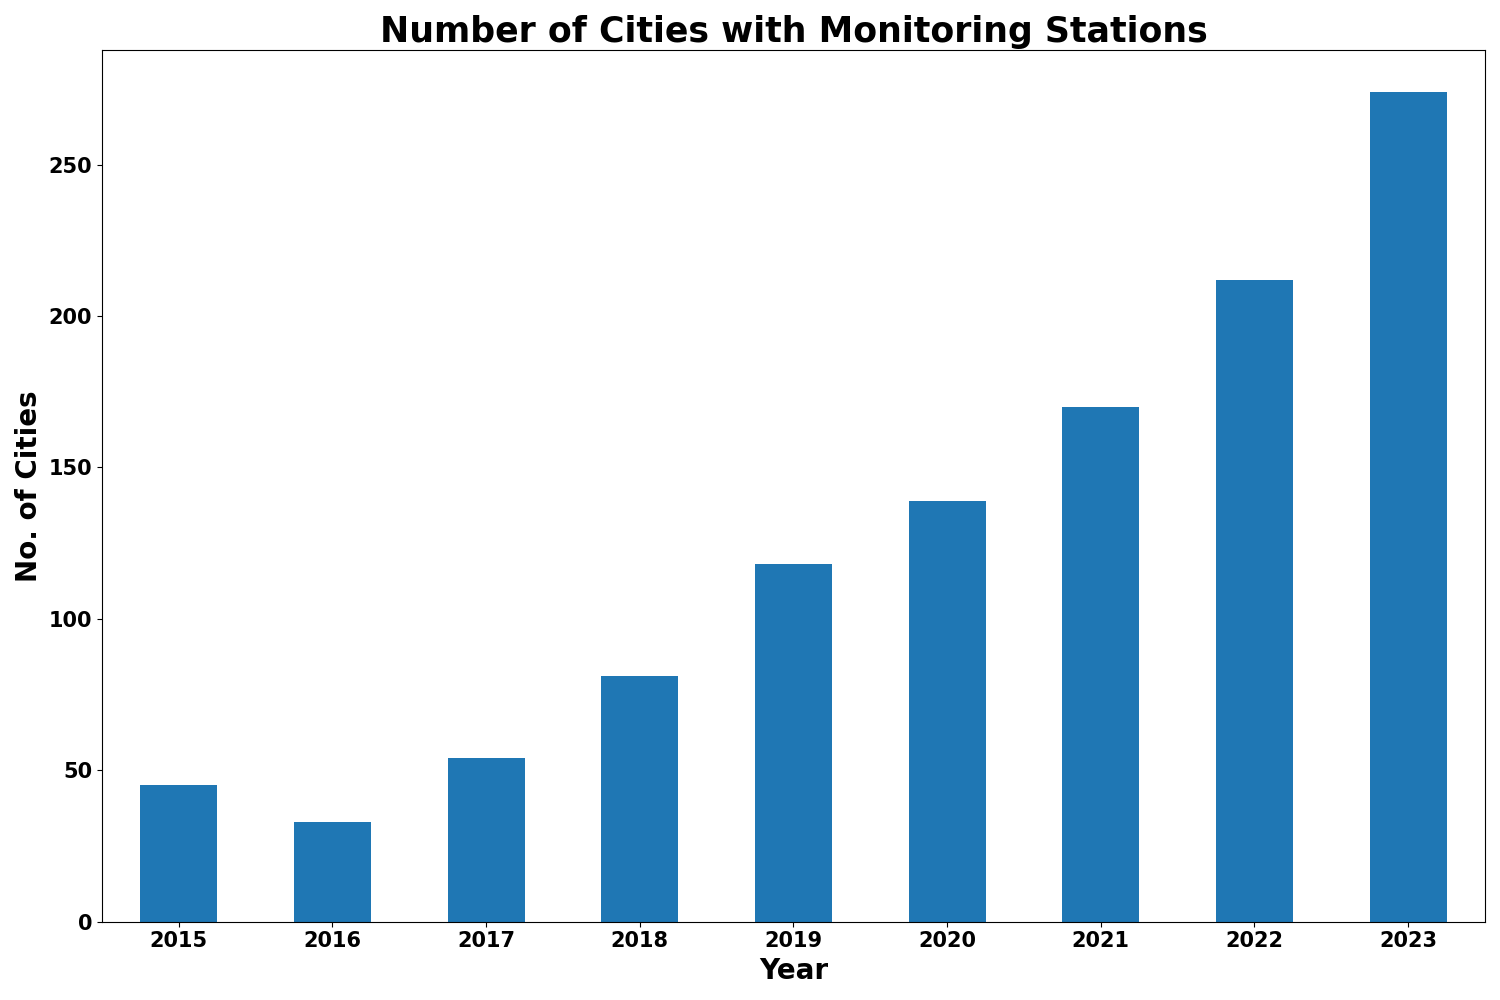
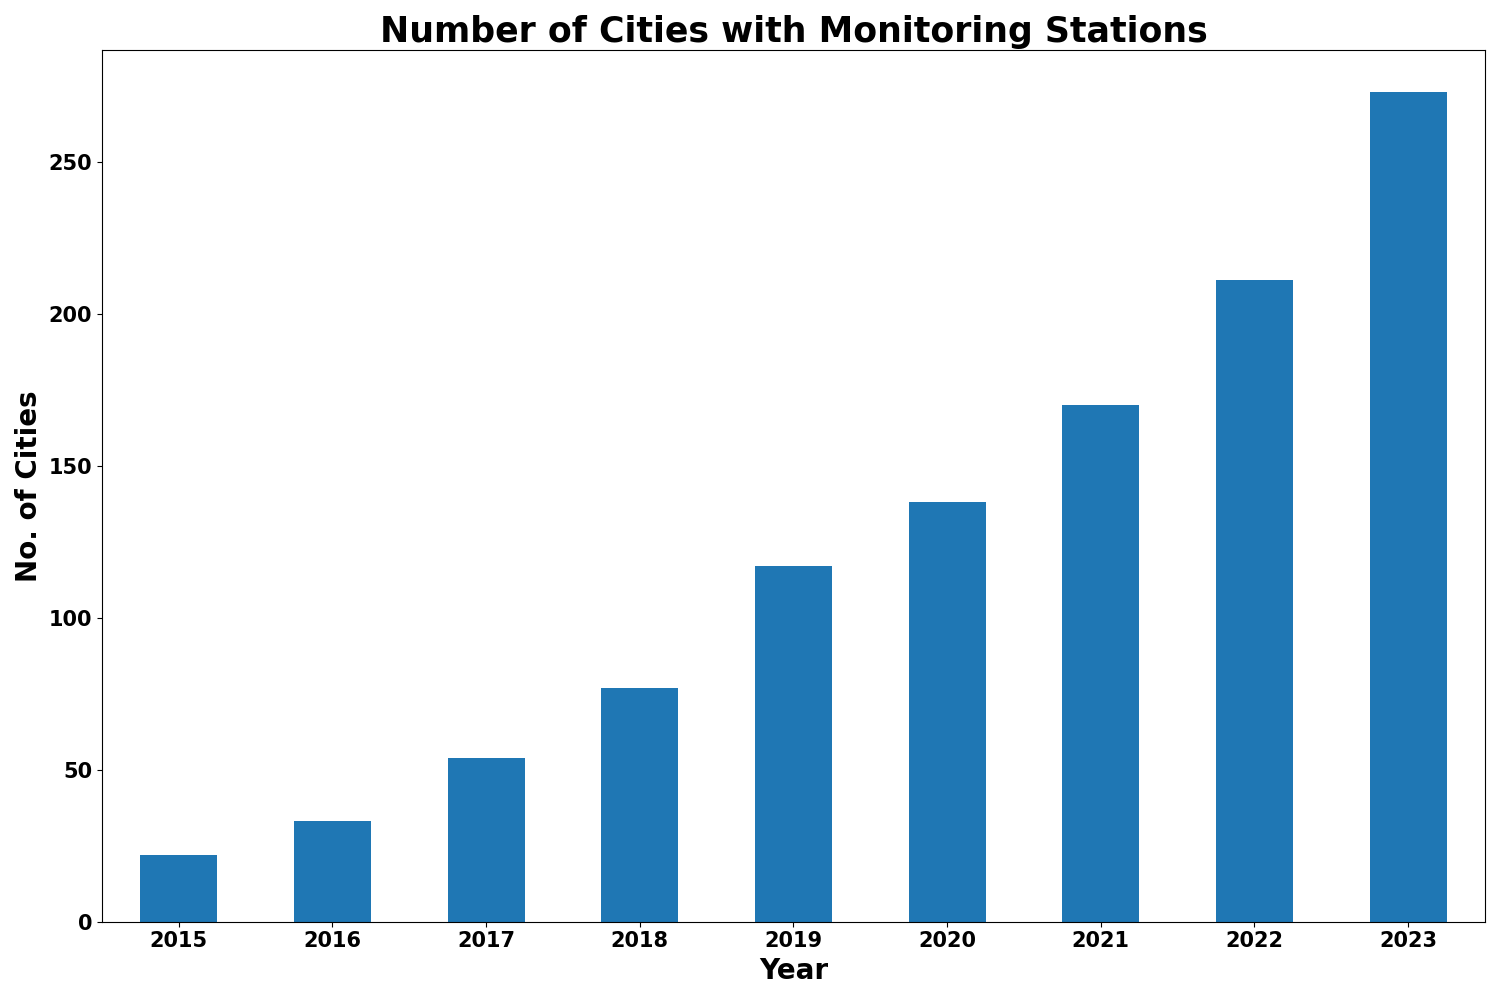
ADD Clean cities

diff --git a/scripts/aqi_research.py b/scripts/aqi_research.py
@@ -13,6 +13,12 @@ df = df.dropna()
 df['date'] = pd.to_datetime(df['date'])
 df['No. Stations'] = df['No. Stations'].astype(float)
 df['year'] = df['date'].dt.year
+df['month'] = df['date'].dt.month
+df['day365'] = df['date'].dt.dayofyear
+
+# List of cities
+df.City.value_counts().to_csv(os.getcwd() + '/data/Results/Cities_list.csv')
+
 
 # 1. total unique cities being monitored by year 
 unique_cities_per_year = df.groupby('year')['City'].nunique()
@@ -28,3 +34,120 @@ plt.ylabel('No. of Cities', fontweight='bold', fontsize=20)
 plt.title('Number of Cities with Monitoring Stations', fontsize=25, fontweight='bold')
 plt.tight_layout()
 plt.savefig(os.getcwd() + '/plots/Results/unique_cities_per_year.png')
+plt.close()
+
+# 2. total unique cities by month
+unique_cities_per_month = df.groupby(['year', 'month'])['City'].nunique()
+unique_cities_per_month.to_csv(os.getcwd() + '/data/Results/unique_cities_per_month.csv')
+unique_cities_per_month = unique_cities_per_month.reset_index()
+unique_cities_per_month['date'] = unique_cities_per_month['year'].astype(str) + '-' + unique_cities_per_month['month'].astype(str)
+
+unique_cities_per_month.plot(x='date', y='City',
+                            kind='bar',
+                            figsize=(15,10))
+selected_ticks = [0] + list(range(12, unique_cities_per_month['date'].shape[0], 12))  # First, 13th, 26th, etc.
+plt.xticks(selected_ticks, fontweight='bold', rotation=0, fontsize=15)
+plt.yticks(fontweight='bold', fontsize=15)
+plt.xlabel('Month', fontweight='bold', fontsize=20)
+plt.ylabel('No. of Cities', fontweight='bold', fontsize=20)
+plt.title('Number of Cities with Monitoring Stations', fontsize=25, fontweight='bold')
+plt.tight_layout()
+# Remove legend box
+plt.legend().remove()
+plt.savefig(os.getcwd() + '/plots/Results/unique_cities_per_month.png')
+plt.close()
+
+# 3. total number of monitoring stations by year
+## Total number of stations on any day
+num_stations = df.groupby(['year','day365'])['No. Stations'].sum().reset_index()
+
+## Considering max number of stations in a year as "num stations in that year"
+num_stations_per_year = num_stations.groupby('year').max().reset_index()
+num_stations_per_year = num_stations_per_year[['year', 'No. Stations']]
+num_stations_per_year.to_csv(os.getcwd() + '/data/Results/num_stations_per_year.csv')
+
+num_stations_per_year.plot(x='year',
+                           kind='bar',
+                           figsize=(15,10))
+
+plt.xticks(fontweight='bold', rotation=0, fontsize=15)
+plt.yticks(fontweight='bold', fontsize=15)
+plt.xlabel('Year', fontweight='bold', fontsize=20)
+plt.ylabel('No. of Stations', fontweight='bold', fontsize=20)
+plt.title('Number of Monitoring Stations', fontsize=25, fontweight='bold')
+plt.tight_layout()
+plt.legend().remove()
+plt.savefig(os.getcwd() + '/plots/Results/num_stations_per_year.png')
+plt.close()
+
+# 4. total number of monitoring stations by month
+## Total number of stations on any day
+num_stations = df.groupby(['year', 'month', 'day365'])['No. Stations'].sum().reset_index()
+
+## Considering max number of stations in a year as "num stations in that year"
+num_stations_per_month = num_stations.groupby(['year','month']).max().reset_index()
+num_stations_per_month = num_stations_per_month[['year', 'month', 'No. Stations']]
+num_stations_per_month.to_csv(os.getcwd() + '/data/Results/num_stations_per_month.csv')
+num_stations_per_month['date'] = num_stations_per_month['year'].astype(str) + '-' + num_stations_per_month['month'].astype(str)
+
+num_stations_per_month.plot(x='date', y='No. Stations',
+                            kind='bar',
+                            figsize=(15,10))
+selected_ticks = [0] + list(range(12, num_stations_per_month['date'].shape[0], 12))  # First, 13th, 26th, etc.
+plt.xticks(selected_ticks, fontweight='bold', rotation=0, fontsize=15)
+plt.yticks(fontweight='bold', fontsize=15)
+plt.xlabel('Month', fontweight='bold', fontsize=20)
+plt.ylabel('No. of Stations', fontweight='bold', fontsize=20)
+plt.title('Number of Monitoring Stations', fontsize=25, fontweight='bold')
+plt.tight_layout()
+# Remove legend box
+plt.legend().remove()
+plt.savefig(os.getcwd() + '/plots/Results/num_stations_per_month.png')
+plt.close()
+
+
+# 5. Average number of monitoring stations per city by year (I am assuming this is the same as point 3/ point 1)
+
+avg_by_year = num_stations_per_year.values[:,1]/unique_cities_per_year.values
+avg_by_year_df = pd.DataFrame([num_stations_per_year.values[:,0], avg_by_year]).T
+avg_by_year_df.columns = ['year', 'avg']
+avg_by_year_df['year'] = avg_by_year_df['year'].astype('int')
+avg_by_year_df.to_csv(os.getcwd() + '/data/Results/avg_numstations_by_year.csv')
+avg_by_year_df.plot(x='year',
+                    kind='bar',
+                    figsize=(15,10))
+
+plt.xticks(fontweight='bold', rotation=0, fontsize=15)
+plt.yticks(fontweight='bold', fontsize=15)
+plt.xlabel('Year', fontweight='bold', fontsize=20)
+plt.ylabel('Average number of Stations', fontweight='bold', fontsize=20)
+plt.title('Average number of Monitoring Stations', fontsize=25, fontweight='bold')
+plt.tight_layout()
+plt.legend().remove()
+plt.savefig(os.getcwd() + '/plots/Results/avg_numstations_by_year.png')
+plt.close()
+
+# 6. Average number of monitoring stations per city by month (I am assuming this is the same as point 4/point 2)
+avg_by_month = num_stations_per_month.values[:,2]/unique_cities_per_month.values[:,2]
+avg_by_month_df = pd.DataFrame(unique_cities_per_month.values[:,0:2])
+avg_by_month_df['avg'] = avg_by_month
+avg_by_month_df.columns = ['year', 'month', 'avg']
+avg_by_year_df.to_csv(os.getcwd() + '/data/Results/avg_numstations_by_month.csv')
+
+avg_by_month_df['date'] = avg_by_month_df['year'].astype(str) + '-' + avg_by_month_df['month'].astype(str)
+
+avg_by_month_df.plot(x='date', y='avg',
+                            kind='bar',
+                            figsize=(15,10))
+selected_ticks = [0] + list(range(12, avg_by_month_df['date'].shape[0], 12))  # First, 13th, 26th, etc.
+plt.xticks(selected_ticks, fontweight='bold', rotation=0, fontsize=15)
+plt.yticks(fontweight='bold', fontsize=15)
+plt.xlabel('Month', fontweight='bold', fontsize=20)
+plt.ylabel('Average number of Stations', fontweight='bold', fontsize=20)
+plt.title('Average number of  Monitoring Stations', fontsize=25, fontweight='bold')
+plt.tight_layout()
+# Remove legend box
+plt.legend().remove()
+plt.savefig(os.getcwd() + '/plots/Results/avg_numstations_by_month.png')
+plt.close()
+

diff --git a/scripts/clean.py b/scripts/clean.py
@@ -34,9 +34,24 @@ master_df['No. Stations'] = master_df['No. Stations'].replace('nan','', regex=Tr
 master_df['No. Stations'] = master_df['No. Stations'].apply(lambda x: str(x).split('/')[0])
 master_df['No. Stations'] = master_df['No. Stations'].apply(lambda x: str(x).replace('+', ''))
 
+# CLean City Column
+master_df['City'] = master_df['City'].apply(lambda x: str(x).replace('+', ''))
+master_df['City'] = master_df['City'].apply(lambda x: str(x).replace('#', ''))
+master_df['City'] = master_df['City'].apply(lambda x: str(x).replace('\n',''))
+master_df['City'] = master_df['City'].replace('Bangaluru', 'Bengaluru', regex=True)
+master_df['City'] = master_df['City'].replace('Ahmadabad', 'Ahmedabad', regex=True)
+master_df['City'] = master_df['City'].replace('Bangalore', 'Bengaluru', regex=True)
+master_df['City'] = master_df['City'].replace('Coimbtore', 'Coimbatore', regex=True)
+master_df['City'] = master_df['City'].replace('vellore', 'Vellore', regex=True)
+master_df['City'] = master_df['City'].replace('Tiruppur', 'Tirupur', regex=True)
+master_df['City'] = master_df['City'].replace('NOIDA', 'Noida', regex=True)
+master_df['City'] = master_df['City'].replace('Greater_Noida', 'Greater Noida', regex=True)
+master_df['City'] = master_df['City'].replace('Aurangabad', 'Aurangabad(Maharashtra)', regex=True)
+
+master_df['City'] = master_df['City'].apply(lambda x: str(x).strip())
 
 master_df = master_df[['date', 'City','No. Stations', 'Air Quality', 'Index Value', 'Prominent Pollutant']]
 master_df = master_df.sort_values(by='date')
-master_df.to_csv(os.getcwd() + '/data/Processed/AllIndiaBulletins_Master_cleaned.csv', index=False)
+master_df.to_csv(os.getcwd() + '/data/Processed/AllIndiaBulletins_Master0.csv', index=False)
 
 
